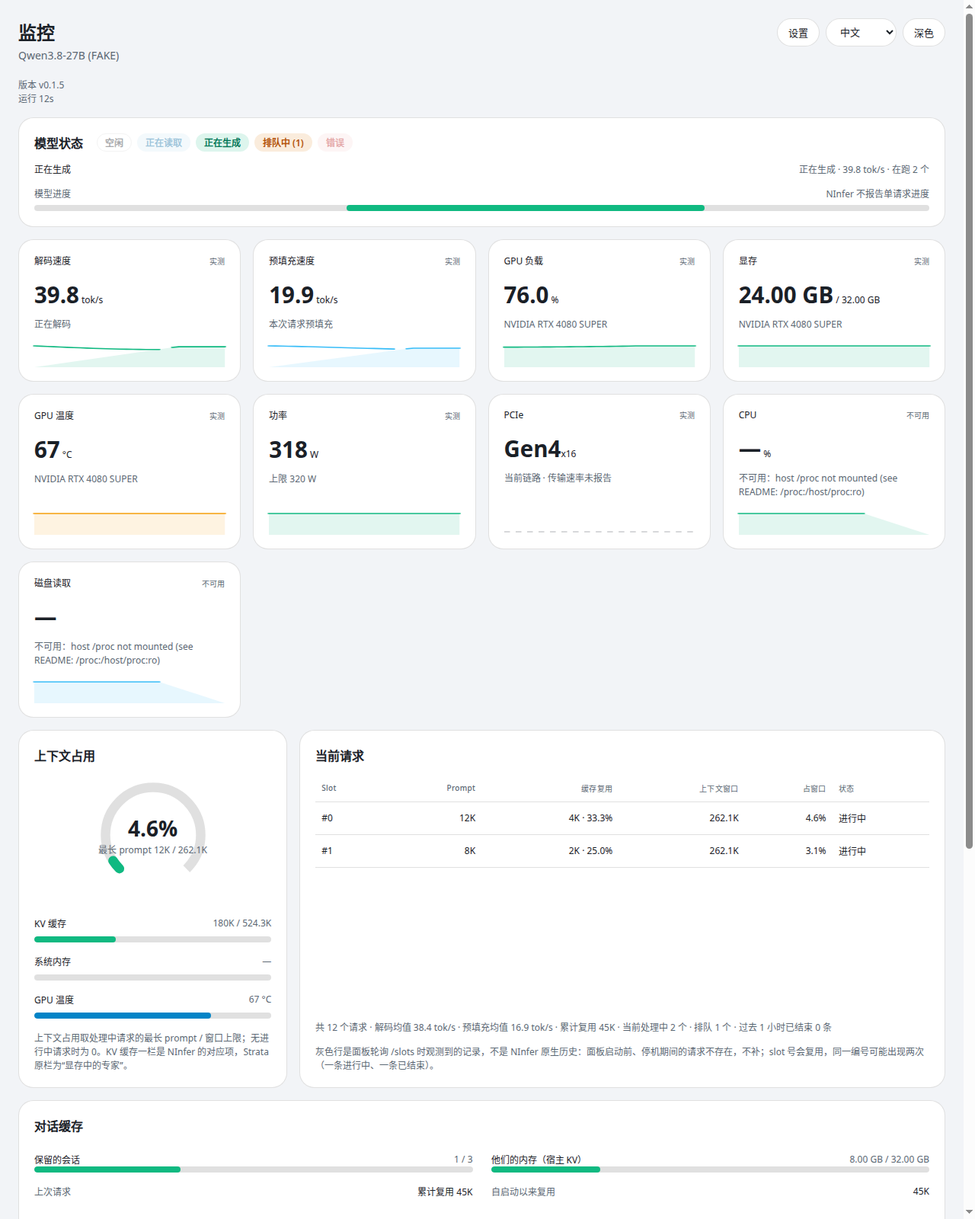
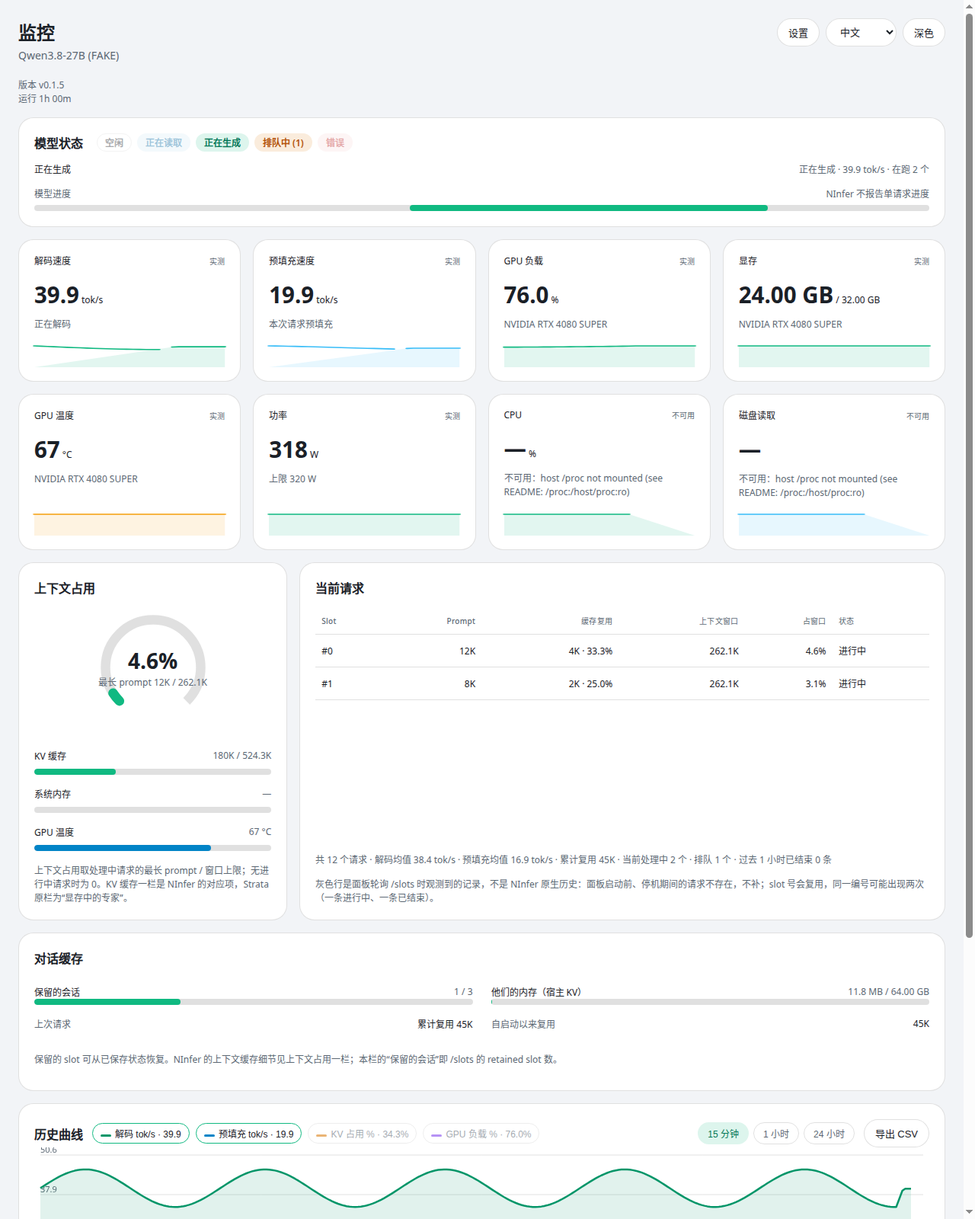
Docs: fixed-size screenshot table with PCIe hidden, trimmed README wording

diff --git a/README.en.md b/README.en.md
@@ -9,19 +9,17 @@ A read-only live panel for an already-running NInfer server. It deploys, downloa
 
 ## Screenshots
 
-The images below are the real panel UI (light theme, Chinese UI). The data is simulated, not live ninfer-unc telemetry: the model name carries `(FAKE)`, and the CPU / disk cards show "unavailable" because the screenshot environment had no host `/proc` mount.
+The images below are the real panel UI (light theme, Chinese UI). The data is simulated (the model name carries `(FAKE)`); the CPU / disk cards show "unavailable" because the screenshot environment had no host `/proc` mount. The main panel hides the PCIe card (re-enable it from Settings).
 
-Main panel (9 metric cards, the PCIe card can be hidden from Settings; the requests table shows in-flight requests on top and grey rows for requests observed ending in the past hour below):
-
-![Main panel](docs/screenshots/panel.png)
-
-Settings dialog (opened from the top-right Settings button; changing the NInfer address needs no compose edit):
-
-![Settings dialog](docs/screenshots/settings.png)
-
-History with multiple dimensions (15 minutes by default; decode + prefill + KV usage + GPU load together, legend shows latest values, left axis tok/s, right axis %):
-
-![History with multiple dimensions](docs/screenshots/history.png)
+<table>
+  <tr>
+    <td align="center"><img src="docs/screenshots/panel.png" width="400"><br>Main panel</td>
+    <td align="center"><img src="docs/screenshots/settings.png" width="400"><br>Settings dialog</td>
+  </tr>
+  <tr>
+    <td colspan="2" align="center"><img src="docs/screenshots/history.png" width="800"><br>History, multiple dimensions (15 minutes by default)</td>
+  </tr>
+</table>
 
 ## Quick start
 
@@ -45,19 +43,19 @@ python3 app.py
 
 | Section | Content |
 | --- | --- |
-| Model state | Five states: idle / reading / generating / queued / error. NInfer has no single state field; this is the panel's documented mapping from running / waiting / prefilling / decode_ready, not a server field. |
-| 9 metric cards | Decode speed, prefill speed, GPU load, VRAM, GPU temperature, power, PCIe link, CPU, disk read. Each card has a sparkline that resumes from backend history after a page refresh (PCIe has link info only, so its sparkline stays dashed). The PCIe card can be hidden from Settings (shown by default; hiding affects only this browser's view, polling continues). |
-| Current requests | Top rows are in-flight slots: slot id, prompt length, cached portion (length · share of prompt, e.g. 4K · 33.3%), context window, share of window, status "In flight". Grey rows below are requests the panel observed ending in the past hour (status "Ended HH:MM"); lengths only, no content; slot ids are reused, so one number can appear twice. Queued requests are a count only, with no per-request detail. |
+| Model state | Five states: idle / reading / generating / queued / error (NInfer has no single state field; mapped from running / waiting / prefilling / decode_ready). |
+| Metric cards | Decode, prefill, GPU load, VRAM, temperature, power, PCIe, CPU, disk read. Sparklines resume from backend history after refresh (PCIe has link info only, so its sparkline stays dashed; it can be hidden from Settings). |
+| Current requests | Top rows are in-flight slots: slot id, prompt length, cached portion (length · share of prompt), context window, share of window, "In flight". Grey rows below are requests observed ending in the past hour ("Ended HH:MM"); lengths only; slot ids are reused. Queued requests are a count only. |
 | Context usage | Longest in-flight prompt / window limit (`capacity.max_context` from `/v1/load`), plus KV cache, system memory, and GPU temperature rows. |
 | Conversation cache | Retained slot count and host KV, plus cumulative reused tokens. |
-| History | Four curves — decode, prefill, KV usage, GPU load — with multi-select dimension toggles in the legend (selection is stored in the browser), and the legend shows each dimension's latest value. The default range is 15 minutes; time range switches between 15 minutes / 1 hour / 24 hours (plus a 7-day range when retention reaches 7 days); hover shows each selected dimension at that moment; below the curve are the current window's average/peak stats, and Export CSV saves the current window and dimensions. The curve is sampled by the backend every 2 seconds and persisted to disk, so it survives page refreshes, restarts, and recreates (with the data volume mounted); only the last 24 hours are kept (retention is configurable). When the data span is shorter than the selected window, the axis fits the data span so the curve always fills the chart, and the time ticks adapt to the span. |
-| State events | A log of state changes seen by backend polling (time, old state → new state, reason), capped at 200 entries and stored in the data volume; the curve marks each event's moment with a vertical line (offline red, recovery green, other grey). |
+| History | Four curves — decode, prefill, KV usage, GPU load — with multi-select legend toggles (stored in the browser) showing latest values. Default range 15 minutes; switches to 1 hour / 24 hours (plus 7 days when retention reaches it); hover shows values at that moment; below are window average/peak stats and Export CSV. Sampled every 2 seconds and persisted to disk, so it survives refreshes, restarts, and recreates (with the data volume mounted); only the last 24 hours are kept (configurable). When the data span is shorter than the window, the axis fits the data so the curve always fills the chart, and time ticks adapt to the span. |
+| State events | State changes seen by backend polling (time, old → new, reason), capped at 200 entries in the data volume; the curve marks each moment with a vertical line (offline red, recovery green, other grey). |
 
 ## Settings
 
-The Settings dialog in the top right edits the NInfer address; saving takes effect immediately — no compose edit, no panel restart. Precedence: **UI-saved address > `NINFER_BASE_URL` environment variable > image default**. The dialog also offers Test connection (checks `/health` only, sends no API key, never auto-saves), a page refresh interval (1–10 s, display only — backend sampling is unchanged), a manual Check for updates (bypasses the 1-hour cache), "Notify in browser when offline" (off by default), and "Hide PCIe card" (off by default, affects only this browser's view). The saved value lives in `settings.json` in the data volume.
+The top-right Settings dialog edits the NInfer address; saving takes effect immediately — no compose edit, no restart. Precedence: **UI-saved > `NINFER_BASE_URL` > image default**. It also offers Test connection (`/health` only, no API key, never auto-saves), a refresh interval (1–10 s, display only), a manual Check for updates (bypasses the 1-hour cache), "Notify in browser when offline" (off by default), and "Hide PCIe card" (off by default, this browser's view only). The saved value lives in `settings.json`.
 
-The top-right buttons switch dark / light and 中文 / English; both choices are stored in browser `localStorage`. Before a choice, the theme follows the system and the language follows the browser language. All UI strings come from one dictionary in `web/i18n.js`; `web/index.html` contains no UI strings at all.
+Top-right buttons switch dark / light and 中文 / English, stored in browser `localStorage`; before a choice, the theme follows the system and the language follows the browser. All UI strings come from one dictionary in `web/i18n.js`; `web/index.html` contains none.
 
 ## Data sources and definitions
 
@@ -68,28 +66,28 @@ The top-right buttons switch dark / light and 中文 / English; both choices are
 | `/stats` | Cumulative averages, queue depth, peak admitted |
 | `/metrics` | Requests completed / failed / rejected, KV usage ratio, draft accept rate, cumulative average speeds |
 | `/slots` | Slot totals, in-flight and retained counts; in-flight slots' prompt lengths and cached portions |
-| `nvidia-smi` | GPU load, VRAM, temperature, power (needs the NVIDIA container toolkit and GPU passthrough on the host; otherwise the cards say unavailable) |
-| Host `/proc` (read-only mount) | System memory, CPU, disk throughput (without the mount these say unavailable; the container's own numbers are never substituted) |
+| `nvidia-smi` | GPU load, VRAM, temperature, power (needs the NVIDIA container toolkit and GPU passthrough; otherwise unavailable) |
+| Host `/proc` (read-only mount) | System memory, CPU, disk throughput (without the mount: unavailable; container numbers are never substituted) |
 
-Three speeds, kept apart: **instant speed** is (this − last) / interval from cumulative counters sampled every 2 seconds; the **15-minute average** is computed from counter samples kept for 900 seconds; the **cumulative average** is NInfer's own since-startup average from `/metrics` / `/stats`.
+Three speeds, kept apart: **instant** ((this − last) / interval from counters sampled every 2 seconds), **15-minute average** (counter samples kept for 900 seconds), **cumulative average** (NInfer's own since-startup average from `/metrics` / `/stats`).
 
 ## What is deliberately not invented
 
 Fields that exist in Strata but not in NInfer are never fabricated:
 
-- **Per-request progress**: `/slots` does not report it, so the progress bar only animates while reading / generating; it never shows a fake percentage.
-- **Request history**: NInfer has no history API, so the grey rows in the table are records the panel itself observed by polling `/slots` in the past hour, not native history; requests from before the panel started or while it was down do not exist and are not backfilled.
+- **Per-request progress**: `/slots` does not report it, so the progress bar only animates while reading / generating, never showing a fake percentage.
+- **Request history**: NInfer has no history API, so the grey rows are records the panel itself observed by polling `/slots` in the past hour, not native history; requests from before the panel started or while it was down do not exist and are not backfilled.
 - **Experts in VRAM**: a Strata MoE cache concept that NInfer does not have; the context section uses NInfer's KV cache instead.
-- **PCIe transfer rate**: not reported by NInfer, and a single `nvidia-smi` query only gives the link generation / width, so the PCIe card shows the link and says the rate is not reported.
+- **PCIe transfer rate**: not reported by NInfer, and a single `nvidia-smi` query only gives link generation / width, so the PCIe card shows the link and says the rate is not reported.
 - **Generated token counts**: `/slots` has none, so the current-requests table shows prompt length only, not output tokens.
 - **Unreachable fields**: shown as "unavailable", never as 0 (0 would be misread as a measured value).
 
 ## Number display rules (display only, values unchanged)
 
-- Speed is always written `tok/s`, never abbreviated to `t/s`; decode at or above 1000 tok/s shortens to `k tok/s` (for example 1.23k tok/s), while prefill is always shown raw, never shortened to k (for example 1245.3 tok/s).
+- Speed is always `tok/s`, never `t/s`; decode at or above 1000 shortens to `k tok/s` (e.g. 1.23k tok/s), prefill is always raw, never shortened to k (e.g. 1245.3 tok/s).
 - The cached column shows "length · share of prompt" (for example 4K · 33.3%).
-- Token counts at or above 1000 shorten to K/M (for example 12K, 262.1K, 180K / 524.3K); the exact value stays in the hover tooltip and in the raw `/api/snapshot` numbers.
-- Bytes auto-scale through B / KB / MB / GB; at or above 1024 MB/s the rate switches to GB/s; percentages always show 1 decimal; uptime shows as `1h 00m` / `45m` / `30s`.
+- Token counts at or above 1000 shorten to K/M (e.g. 12K, 262.1K); the exact value stays in the hover tooltip and raw `/api/snapshot` numbers.
+- Bytes auto-scale B / KB / MB / GB; at or above 1024 MB/s the rate switches to GB/s; percentages always 1 decimal; uptime `1h 00m` / `45m` / `30s`.
 
 ## Configuration
 
@@ -99,16 +97,16 @@ Fields that exist in Strata but not in NInfer are never fabricated:
 | `NINFER_API_KEY` | empty | Only if NInfer was started with an API key; the backend sends it as a Bearer token to read endpoints and never puts it in a snapshot or the frontend |
 | `PANEL_BIND` / `PANEL_PORT` | `0.0.0.0` / `8091` | In-container listen address and port; public exposure is controlled by compose's `127.0.0.1:8091:8091` mapping |
 | `POLL_INTERVAL` | `2` | Backend poll interval in seconds |
-| `PANEL_HISTORY_FILE` | `/app/data/history.jsonl` | History curve file; events (`events.jsonl`), request records (`requests.json`), and settings (`settings.json`) live in the same directory |
+| `PANEL_HISTORY_FILE` | `/app/data/history.jsonl` | History curve file; events, request records, and settings live in the same directory |
 | `PANEL_HISTORY_RETENTION_SECONDS` | `86400` | History retention in seconds; the history range cap follows it — set 604800 for the 7-day range |
 | `PANEL_UPDATE_CHECK` | `1` | Set to `0` to disable the upgrade check (offline hosts) |
-| `VERSION` (file) | repo root | Current version; image and Release tags both come from it |
+| `VERSION` (file) | repo root | Current version; image and Release tags come from it |
 
 ## Version, upgrade check, and release flow
 
-- The panel header shows the `VERSION` file's version; the image is tagged both `:latest` and `:v<VERSION>`.
-- Upgrade check: once an hour (cached for 1 hour) the panel asks the public GitHub Releases API for this repository's latest release. It reads a public record only — no token, no panel data. If the check fails, the banner simply stays hidden. When a newer release exists, a banner appears at the top with a link to the Release.
-- Change flow: `main` is protected; nothing is pushed to it directly. Changes go through a normal PR: branch → push branch → open PR → at least 1 approval + the `build-and-push` check passing → merge. After merging to main, Docker Publish builds and pushes the image, and on a successful build the Release workflow creates a Release automatically (skipped when `VERSION` did not change, so no duplicate releases).
+- The panel header shows the `VERSION` file's version; the image is tagged `:latest` and `:v<VERSION>`.
+- Upgrade check: once an hour (cached for 1 hour) the panel asks the public GitHub Releases API for this repository's latest release — a public record only, no token, no panel data. If the check fails, the banner simply stays hidden; when a newer release exists, a banner appears at the top with a link.
+- Change flow: `main` is protected; changes go through a PR: branch → push branch → open PR → at least 1 approval + the `build-and-push` check passing → merge. After merging to main, Docker Publish builds and pushes the image, and on success the Release workflow creates a Release automatically (skipped when `VERSION` did not change).
 
 ## Security
 
@@ -122,11 +120,11 @@ See [SECURITY.md](./SECURITY.md) for the full statement. The essentials:
 
 | Symptom | Check first |
 | --- | --- |
-| Panel opens but everything is offline | Confirm NInfer is running and `curl http://127.0.0.1:8080/health` answers on the host, then check the address in the panel's Settings card |
-| GPU cards say unavailable | The host lacks the NVIDIA container toolkit, or the GPU passthrough block was removed from compose; NInfer numbers still work without it, just without GPU cards |
-| System memory says unavailable | Host `/proc` is not mounted; compose mounts `/proc:/host/proc:ro` by default, and removing it makes memory unavailable rather than substituted with container memory |
+| Panel opens but everything is offline | Confirm NInfer is running and `curl http://127.0.0.1:8080/health` answers on the host, then check the address in Settings |
+| GPU cards say unavailable | The host lacks the NVIDIA container toolkit, or GPU passthrough was removed from compose; NInfer numbers still work, just without GPU cards |
+| System memory says unavailable | Host `/proc` is not mounted; compose mounts `/proc:/host/proc:ro` by default, and removing it makes memory unavailable rather than substituted |
 | Instant speed is occasionally 0 while generating | No new tokens were committed between two samples; this is real behavior — judge it together with the cumulative average and the curve |
-| History curve is empty | Normal for the first two samples after startup; if it is still empty after a minute, check that the data volume is mounted and look for write errors in the panel log (a write failure falls back to memory-only history and does not break the main panel) |
+| History curve is empty | Normal for the first two samples after startup; if still empty after a minute, check the data volume mount and panel log for write errors (a write failure falls back to memory-only history and does not break the main panel) |
 
 ## Layout source and development
 
@@ -138,4 +136,4 @@ The layout replicates the `apps/host` Monitor screen of Niko1221/Strata (MIT lic
 python3 -m py_compile app.py
 ```
 
-Real-machine verification is still open: run it on the NInfer host and confirm the model name, uptime, and instant speed moving with a real request before calling it fully verified.
+Real-machine verification passed: confirmed by the user on the ninfer-unc host, with no issues.

diff --git a/README.md b/README.md
@@ -9,19 +9,17 @@
 
 ## 效果图
 
-下图是真实界面（浅色主题、中文界面），数据是模拟 NInfer，不是真实 ninfer-unc 的遥测：模型名带 `(FAKE)`，CPU / 磁盘卡片显示“不可用”是因为截图环境没有挂载宿主 `/proc`。
+真实界面（浅色主题、中文界面），数据是模拟 NInfer（模型名带 `(FAKE)`）；CPU / 磁盘卡片显示“不可用”是因为截图环境没有挂载宿主 `/proc`。主面板的 PCIe 卡已隐藏（设置里可恢复）。
 
-主面板（9 张指标卡，PCIe 卡可在设置里隐藏；当前请求表上半是进行中的请求，下半灰色行是过去 1 小时内观测到的已结束请求）：
-
-![主面板](docs/screenshots/panel.png)
-
-设置弹窗（右上角“设置”打开，改 NInfer 地址不用改 compose）：
-
-![设置弹窗](docs/screenshots/settings.png)
-
-历史曲线多维度（默认 15 分钟；解码 + 预填充 + KV 占用 + GPU 负载同开，图例带最新值，左轴 tok/s、右轴 %）：
-
-![历史曲线多维度](docs/screenshots/history.png)
+<table>
+  <tr>
+    <td align="center"><img src="docs/screenshots/panel.png" width="400"><br>主面板</td>
+    <td align="center"><img src="docs/screenshots/settings.png" width="400"><br>设置弹窗</td>
+  </tr>
+  <tr>
+    <td colspan="2" align="center"><img src="docs/screenshots/history.png" width="800"><br>历史曲线多维度（默认 15 分钟）</td>
+  </tr>
+</table>
 
 ## 快速开始
 
@@ -45,19 +43,19 @@ python3 app.py
 
 | 区域 | 内容 |
 | --- | --- |
-| 模型状态 | 五态：空闲 / 正在读取 / 正在生成 / 排队中 / 错误。NInfer 没有单一状态字段，这是面板按 running / waiting / prefilling / decode_ready 的公开映射。 |
-| 9 张指标卡 | 解码速度、预填充速度、GPU 负载、显存、GPU 温度、功率、PCIe 链路、CPU、磁盘读取。每张卡下是迷你曲线，刷新页面后从后端历史续上（PCIe 只有链路信息，曲线恒为虚线）。PCIe 卡可在设置里勾选隐藏（默认显示，隐藏只影响本浏览器视图，轮询不停）。 |
-| 当前请求 | 上半是当前处理中的 slot：slot 号、prompt 长度、缓存复用（长度 · 占 prompt 比例，如 4K · 33.3%）、上下文窗口、占窗口比例、状态“进行中”。下半灰色行是面板过去 1 小时内观测到的已结束请求（状态“已结束 HH:MM”），只含长度不含内容；slot 号会复用，同一编号可能出现两次。排队请求只有个数，没有逐条明细。 |
+| 模型状态 | 五态：空闲 / 正在读取 / 正在生成 / 排队中 / 错误（NInfer 无单一状态字段，按 running / waiting / prefilling / decode_ready 映射）。 |
+| 指标卡 | 解码、预填充、GPU 负载、显存、温度、功率、PCIe、CPU、磁盘读取；迷你曲线刷新后从后端历史续上（PCIe 只有链路，曲线恒为虚线；可在设置里隐藏）。 |
+| 当前请求 | 上半是处理中的 slot：slot 号、prompt 长度、缓存复用（长度 · 占 prompt 比例）、窗口、占窗口比、“进行中”。下半灰色行是过去 1 小时观测到的已结束请求（“已结束 HH:MM”），只含长度；slot 号会复用。排队只有个数。 |
 | 上下文占用 | 最长处理中 prompt / 窗口上限（`/v1/load` 的 `capacity.max_context`），另有 KV 缓存、系统内存、GPU 温度三条。 |
 | 对话缓存 | 保留的 slot 数与宿主 KV，以及累计复用 token 数。 |
-| 历史曲线 | 解码、预填充、KV 占用、GPU 负载四条曲线，图例可多选（选择记在浏览器里），图例带各维最新值；默认 15 分钟，时间切 15 分钟 / 1 小时 / 24 小时（保留时长够 7 天时多一个 7 天档），悬停看某时刻数值，下方有当前窗口的平均/峰值统计，右上角“导出 CSV”。曲线由后端每 2 秒采样、写盘保存，刷新、重启、重建（挂数据卷时）都不丢，只保留最近 24 小时（保留时长可配）；数据跨度不足所选窗口时横轴贴合数据跨度，曲线始终铺满，横轴刻度按跨度自适应。 |
-| 状态事件 | 后端轮询到的状态变化日志（时间、旧状态→新状态、原因），最多 200 条，存在数据卷里；曲线上对应时刻有竖线标记（离线红、恢复绿、其他灰）。 |
+| 历史曲线 | 解码、预填充、KV、GPU 四条曲线，图例多选（记浏览器里）带最新值；默认 15 分钟，可切 1 小时 / 24 小时（保留够 7 天多 7 天档）；悬停看数值，下方有窗口平均/峰值，右上角导出 CSV。后端每 2 秒采样写盘，刷新、重启、重建（挂数据卷）都不丢，只保留最近 24 小时（可配）；数据不足窗口时横轴贴合数据，刻度按跨度自适应。 |
+| 状态事件 | 状态变化日志（时间、旧→新、原因），最多 200 条，存数据卷；曲线上对应时刻有竖线（离线红、恢复绿、其他灰）。 |
 
 ## 设置
 
-右上角“设置”弹窗改 NInfer 地址，保存立即生效，不用改 compose、不用重启。优先级：**界面保存的地址 > `NINFER_BASE_URL` 环境变量 > 镜像默认地址**。弹窗里还能“测试连接”（只查 `/health`，不发 API key、不自动保存）、调页面刷新间隔（1–10 秒，只影响页面，后端采样不变）、手动“检查更新”（绕过 1 小时缓存）、开“离线时发浏览器通知”（默认关）、勾“隐藏 PCIe 卡片”（默认不勾，只影响本浏览器视图）。保存的值写在数据卷的 `settings.json` 里。
+右上角“设置”弹窗改 NInfer 地址，保存立即生效，不用改 compose、不用重启。优先级：**界面保存 > `NINFER_BASE_URL` > 镜像默认**。弹窗里还能测试连接（只查 `/health`，不发 key、不自动保存）、调刷新间隔（1–10 秒，只影响页面）、手动检查更新（绕过 1 小时缓存）、开离线通知（默认关）、隐藏 PCIe 卡片（默认不勾，只影响本浏览器视图）。保存的值写数据卷 `settings.json`。
 
-右上角按钮切深色 / 浅色、切中文 / English，选择都记在浏览器 `localStorage` 里；没选过时主题跟随系统、语言按浏览器语言判断。界面文案全部来自 `web/i18n.js` 一本字典，`web/index.html` 里不放任何界面文案。
+右上角按钮切深浅色、切中英，记浏览器 `localStorage`；没选过时主题跟随系统、语言按浏览器判断。文案全在 `web/i18n.js`，`index.html` 里不放文案。
 
 ## 数据来源与口径
 
@@ -68,28 +66,28 @@ python3 app.py
 | `/stats` | 累计均值、队列深度、历史峰值接纳 |
 | `/metrics` | 请求完成 / 失败 / 拒绝、KV 占用率、草稿接受率、累计均值速度 |
 | `/slots` | slot 总数、处理中、保留数；处理中 slot 的 prompt 长度与缓存复用部分 |
-| `nvidia-smi` | GPU 负载、显存、温度、功率（需宿主装 nvidia-container-toolkit 并直通 GPU，否则明说不可用） |
-| 宿主 `/proc`（只读挂载） | 系统内存、CPU、磁盘吞吐（不挂载时明说不可用，绝不用容器自己的数字冒充宿主） |
+| `nvidia-smi` | GPU 负载、显存、温度、功率（需宿主装 nvidia-container-toolkit 直通，否则明说不可用） |
+| 宿主 `/proc`（只读挂载） | 系统内存、CPU、磁盘吞吐（不挂载明说不可用，绝不用容器数字冒充宿主） |
 
-三种速度要分清：**瞬时速度**是后端每 2 秒取累计计数算的（本次 − 上次）/ 间隔；**近 15 分钟均值**是后端留 900 秒采样现算的窗口均值；**累计均值**是 NInfer `/metrics` / `/stats` 自带的从启动算起的平均值。
+三种速度：**瞬时**（后端每 2 秒用累计计数差 / 间隔算）、**近 15 分钟均值**（后端 900 秒采样窗口均值）、**累计均值**（NInfer 自带，从启动算起）。
 
 ## 不造数的清单
 
 Strata 有、NInfer 没有的字段，本面板一律不编：
 
-- **单请求进度**：`/slots` 不报告，进度条在生成 / 读取时只做进行中动画，不填假百分比。
-- **历史请求**：NInfer 不提供历史接口，表里的过去行是面板自己轮询 `/slots` 观测到的过去 1 小时记录，不是原生历史；面板启动前、停机期间的请求不存在，不补。
+- **单请求进度**：`/slots` 不报告，进度条只做进行中动画，不填假百分比。
+- **历史请求**：表里的过去行是面板轮询 `/slots` 观测的过去 1 小时记录，不是原生历史；启动前、停机期间的请求不存在，不补。
 - **显存中的专家**：Strata 的 MoE 专家缓存，NInfer 没有，上下文栏改用 KV 缓存。
-- **PCIe 传输速率**：NInfer 不报告，`nvidia-smi` 单次查询也只给链路代宽，PCIe 卡只显示链路，传输速率写“未报告”。
-- **已生成 token 数**：`/slots` 没有，当前请求表只有 prompt 长度，没有输出 token 数。
+- **PCIe 传输速率**：NInfer 不报告，`nvidia-smi` 也只给链路代宽，PCIe 卡只显示链路，速率写“未报告”。
+- **已生成 token 数**：`/slots` 没有，表里只有 prompt 长度，没有输出 token 数。
 - **采集未通的字段**：显示“不可用”，不显示 0（0 会被误读成实测值）。
 
 ## 数字显示规则（只改显示，不改数值）
 
-- 速度一律写 `tok/s`（不缩成 `t/s`）；解码 ≥ 1000 tok/s 缩成 `k tok/s`（如 1.23k tok/s），预填充一律原数不缩 k（如 1245.3 tok/s）。
+- 速度一律写 `tok/s`（不缩 `t/s`）；解码 ≥ 1000 缩 `k tok/s`（如 1.23k），预填充原数不缩 k（如 1245.3）。
 - 缓存复用列写“长度 · 占 prompt 比例”（如 4K · 33.3%）。
-- token 数 ≥ 1000 缩成 K/M（如 12K、262.1K、180K / 524.3K），精确值在悬停提示和 `/api/snapshot` 原始数字里。
-- 字节自动换档 B / KB / MB / GB；≥ 1024 MB/s 自动升 GB/s；百分比统一 1 位小数；运行时间显示为 `1h 00m` / `45m` / `30s`。
+- token 数 ≥ 1000 缩 K/M（如 12K、262.1K），精确值在悬停提示和 `/api/snapshot` 里。
+- 字节自动换档 B / KB / MB / GB；≥ 1024 MB/s 升 GB/s；百分比 1 位小数；运行时间 `1h 00m` / `45m` / `30s`。
 
 ## 配置
 
@@ -99,16 +97,16 @@ Strata 有、NInfer 没有的字段，本面板一律不编：
 | `NINFER_API_KEY` | 空 | 仅当 NInfer 设了 API key 时填，后端以 Bearer 发给读取口，绝不放进快照或前端 |
 | `PANEL_BIND` / `PANEL_PORT` | `0.0.0.0` / `8091` | 容器内监听地址与端口；对外发布靠 compose 的 `127.0.0.1:8091:8091` 控制 |
 | `POLL_INTERVAL` | `2` | 后端轮询间隔（秒） |
-| `PANEL_HISTORY_FILE` | `/app/data/history.jsonl` | 历史曲线落盘文件；事件（`events.jsonl`）、请求记录（`requests.json`）、设置（`settings.json`）都在同一目录 |
+| `PANEL_HISTORY_FILE` | `/app/data/history.jsonl` | 历史曲线落盘文件；事件、请求记录、设置都在同一目录 |
 | `PANEL_HISTORY_RETENTION_SECONDS` | `86400` | 历史保留时长（秒）；历史时间档上限跟它走，设 604800 才有 7 天档 |
 | `PANEL_UPDATE_CHECK` | `1` | 设为 `0` 关闭升级检查（离线主机用） |
-| `VERSION`（文件） | 仓库根目录 | 当前版本号，镜像标签和 Release 标签都从它来 |
+| `VERSION`（文件） | 仓库根目录 | 当前版本号，镜像和 Release 标签都从它来 |
 
 ## 版本、升级检查与发布流程
 
-- 面板右上角显示 `VERSION` 文件的版本；镜像同时打 `:latest` 和 `:v<VERSION>` 两个标签。
-- 升级检查：面板每小时（缓存 1 小时）向 GitHub 公开 Releases 接口查一次本仓库的最新 Release，只读公开记录，不发 token、不发面板数据；查不到或失败时横幅保持隐藏，不报错；发现新版本时顶部出现横幅，点链接去看 Release。
-- 改动流程：`main` 分支受保护，不直接推 main。改动走正常 PR：开分支 → 推分支 → 开 PR → 至少 1 人 approve + `build-and-push` 检查通过 → 合并。合并到 main 后 Docker Publish 自动构建推镜像，构建成功后 Release 工作流自动发 Release（VERSION 没变就不重复发）。
+- 面板右上角显示 `VERSION` 的版本；镜像同时打 `:latest` 和 `:v<VERSION>`。
+- 升级检查：每小时向 GitHub 公开 Releases 查一次本仓最新版，只读公开记录，不发 token、不发面板数据；失败时横幅隐藏不报错；有新版时顶部出横幅，点链接去看 Release。
+- 改动走 PR（`main` 受保护）：分支 → 推分支 → PR（1 人 approve + `build-and-push` 通过）→ 合并；合到 main 后自动构建推镜像、发 Release（VERSION 没变不重复发）。
 
 ## 安全
 
@@ -122,11 +120,11 @@ Strata 有、NInfer 没有的字段，本面板一律不编：
 
 | 现象 | 先查什么 |
 | --- | --- |
-| 面板开但全是离线 | 先确认 NInfer 在跑、`curl http://127.0.0.1:8080/health` 在宿主上有返回，再核对面板“设置”里的地址 |
-| GPU 卡片说不可用 | 宿主没装 nvidia-container-toolkit，或 compose 里删了 GPU 直通段；删了也能看 NInfer 数字，只是没有 GPU 卡 |
-| 系统内存说不可用 | 没挂载宿主 `/proc`；compose 默认挂了 `/proc:/host/proc:ro`，删掉它内存就是不可用，不会用容器内存顶替 |
+| 面板开但全是离线 | 先确认 NInfer 在跑、宿主上 `curl /health` 有返回，再核对设置里的地址 |
+| GPU 卡片说不可用 | 没装 nvidia-container-toolkit 或删了 GPU 直通；删了也能看 NInfer 数字，只缺 GPU 卡 |
+| 系统内存说不可用 | 没挂载宿主 `/proc`；compose 默认挂 `/proc:/host/proc:ro`，删掉就是不可用，不会用容器内存顶替 |
 | 瞬时速度偶尔为 0 但状态是生成中 | 两次采样之间刚好没有新提交 token，是真实现象；看累计均值和曲线一起判断 |
-| 历史曲线是空的 | 刚启动不满两次采样时正常；超过一分钟还空，检查数据卷是否挂载、面板日志有无写盘报错（写盘失败时曲线退回内存模式，不影响主面板） |
+| 历史曲线是空的 | 刚启动不满两次采样正常；超过一分钟还空，检查数据卷挂载、面板日志写盘报错（写盘失败退回内存模式，不影响主面板） |
 
 ## 版式来源与开发
 
@@ -138,4 +136,4 @@ Strata 有、NInfer 没有的字段，本面板一律不编：
 python3 -m py_compile app.py
 ```
 
-真机联调仍待做：在 NInfer 所在宿主上跑起来，看到模型名、运行时间、瞬时速度随一次真实请求起伏，才算闭环。
+真机联调已通过：用户在 ninfer-unc 宿主上验证，各项正常。
